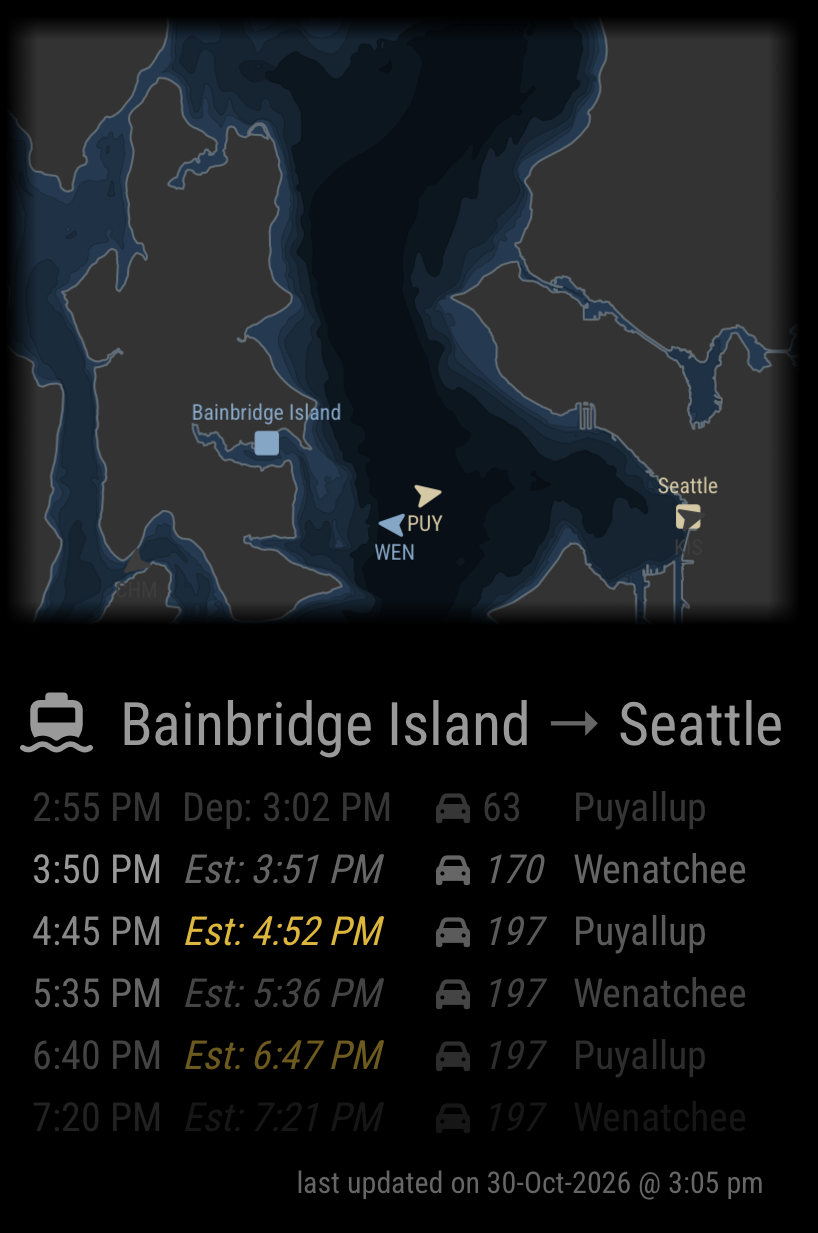
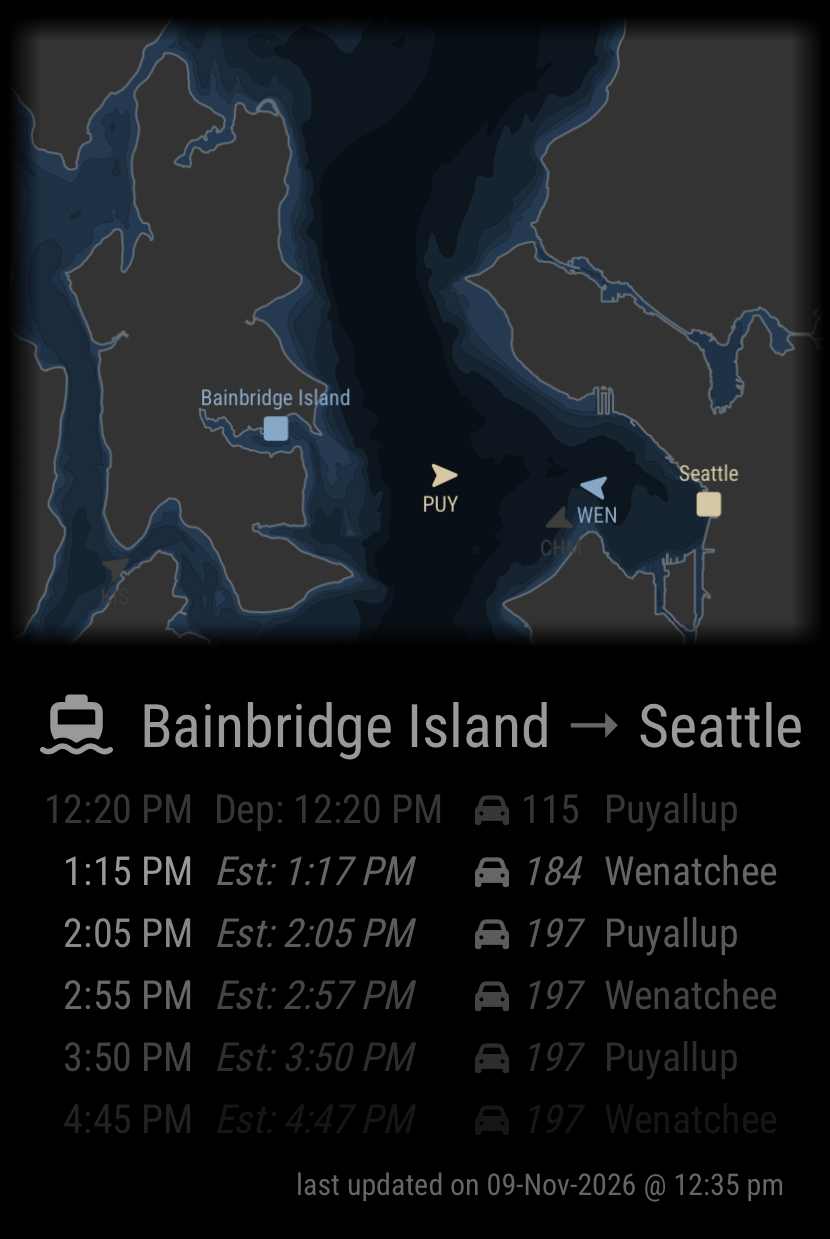
Update the screenshot; document Pi soak tests and debugging
- New screenshot: the map (with the darker docked marker and new size)
  above the sailing list; metadata stripped
- CLAUDE.md: how to run a soak test on the Pi; consider the Pi itself when
  chasing problems; record the accepted restart gap; drop the DB-queue
  indicator (covered by the DB problem state) and the Pi performance check
  from open work

diff --git a/CLAUDE.md b/CLAUDE.md
@@ -52,6 +52,13 @@ The repo is public. Machine-specific notes live in a git-ignored `CLAUDE.local.m
   using gpiozero (both come with Raspberry Pi OS; see GPIO). It must stay small, with no
   growing state, supervised from Node, and soak-tested on the Pi before merging changes to it.
 - MagicMirror requires Node >= 22.21.1. `fetch` is used natively (no HTTP library).
+- **When chasing a problem on the mirror, consider the Pi itself, not just the module.** Past
+  issues came from the Pi: memory exhaustion from another desktop process filling RAM and swap
+  (everything slowed, including the module), and modules failing to load because MagicMirror
+  started before the desktop and network were ready at boot. Useful first checks: `free -h`,
+  per-process memory and swap (`VmSwap` in `/proc/*/status`), load average, `pm2 logs`, and the
+  refresh intervals in the prediction DB (gaps or drift past the usual ~5 min show when the Pi
+  was struggling).
 
 ## Configuration
 
@@ -96,6 +103,29 @@ Automated (`tests/`), from the module directory: `node --test` (or `npm test`).
 
 Manual: run `node --run server` from the MagicMirror root and open http://localhost:8080.
 Check the module's log lines in the server output. Stop the server when done.
+
+### Soak test on the Pi
+
+Required before merging changes to the GPIO helper (see GPIO), and useful when chasing memory
+or CPU growth. Run it for at least 48 hours on the Pi with the change deployed
+(`git pull`, then `pm2 restart MagicMirror`).
+
+1. Start the logger. It samples memory and CPU of the GPIO helper and MagicMirror every 10
+   minutes into `~/gpio-soak.log`. `nohup` plus `disown` keep it running after the SSH
+   session closes; a reboot stops it (start it again; the gap shows in the log).
+   ```
+   nohup bash -c 'while true; do echo "$(date "+%F %T") $(ps -eo rss,pcpu,etime,args --sort=-rss | grep -E "gpio_helper|electron|MagicMirror/js" | grep -v grep | awk "{printf \"%s|%sMB|%s%%|%s  \", \$4, int(\$1/1024), \$2, \$3}")" >> ~/gpio-soak.log; sleep 600; done' >/dev/null 2>&1 &
+   disown
+   ```
+2. Check it's running: `pgrep -af gpio-soak` (one line) and `tail -2 ~/gpio-soak.log`. Each line
+   is a timestamp, then per process `command|memory MB|CPU %|running time`; the GPIO helper
+   shows as `python3`, MagicMirror as several `electron` processes and `node`.
+3. After 48 hours, read `cat ~/gpio-soak.log`. **Pass:** the helper's memory stays flat (about
+   20 MB) and MagicMirror's processes don't keep growing. The CPU % from `ps` is an average over
+   each process's whole life; for the current load use
+   `top -b -n 2 -d 5 -p $(pgrep -f gpio_helper.py) | tail -2`. Electron's processes share
+   memory, so their numbers overlap and don't add up to the total in use.
+4. Stop the logger: `pkill -f gpio-soak.log`.
 
 ## Data source
 
@@ -220,6 +250,8 @@ calls after a restart.
     matched, or on multi-stop routes, no timetable is used. Times are matched by Seattle clock
     time (settles the repeated hour when daylight time ends). If the timetable fails to load,
     retried after an hour; meanwhile only `IsCancelled` applies.
+  - Known gap: right after a restart, a removed sailing whose time has passed may show as
+    cancelled even if a boat ran it late (the module didn't see it leave). Accepted.
 - Memory entries are pruned 24 hours after their scheduled time.
 - **Pre-departure refreshes:** besides the `updateInterval` timer, an extra refresh runs 1
   minute before the next upcoming (non-cancelled) sailing's scheduled and estimated
@@ -372,17 +404,12 @@ description and wiring in README.md). Each part runs only if its setting is pres
 - **Testing:** `tests/gpio.test.js` covers the controller with a stand-in process, the Python
   helper against a stand-in gpiozero (`tests/gpio_stub/`), and node_helper's use of it. Real
   pins only on the Pi: check by hand, and soak-test changes for at least 48 hours with the
-  helper's memory and CPU sampled (it should stay flat, about 20-25 MB).
+  helper's memory and CPU sampled (it should stay flat, about 20 MB; see "Soak test on the Pi").
 
 ## Open work
 
 - **Delay prediction** and **fill prediction**: built on the logged data, outside this
   module (post-processing on the DB side, e.g. Python in `predictive_helpers/`).
-- **Indicator when a backed-up DB queue has been flushed** (the red icon covers active
-  problems only).
-- **Pi performance check, only if issues show up on the Pi:** build time and memory from the
-  "Built map" log line, display smoothness, multi-week memory. (A 35-day fast-forward of the
-  helper, 10,000 cycles, showed flat heap use of about 7.2 MB.)
 
 ## Rejected ideas
 
@@ -392,6 +419,9 @@ Raise one again only if circumstances change (and say what changed).
 - **Reusing the schedule via WSF's `cacheflushdate`:** the schedule's flush date changes
   every 5 minutes regardless of content, so skipping unchanged schedules saved almost
   nothing for the added complexity.
+- **A separate indicator for when a backed-up DB queue has been flushed:** not needed. While
+  writes are failing (so the queue is backing up), the DB problem is active: red title icon and
+  STATUS LED fast pulse. Both clear only on a successful flush, which empties the queue.
 - **More than one route per MagicMirror installation:** unsupported by design; a second
   route is ignored with a warning, and the README describes a fork workaround (see
   "Design constraint: one route").
